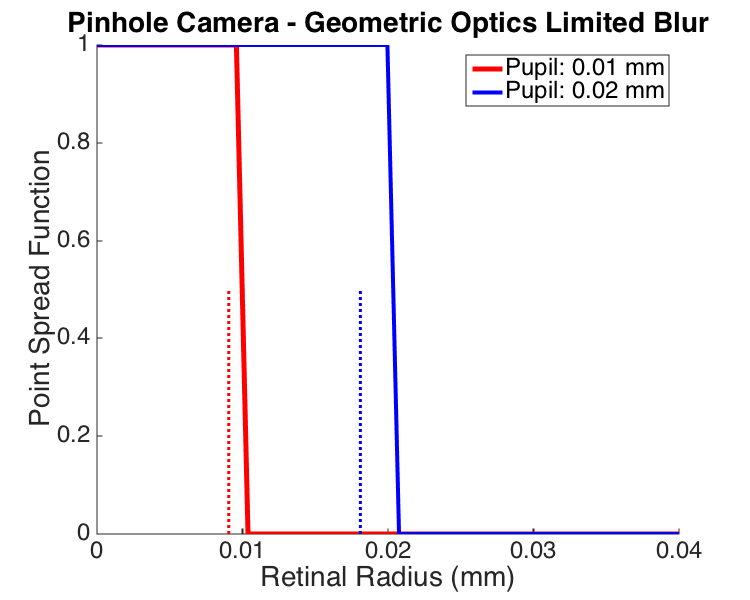
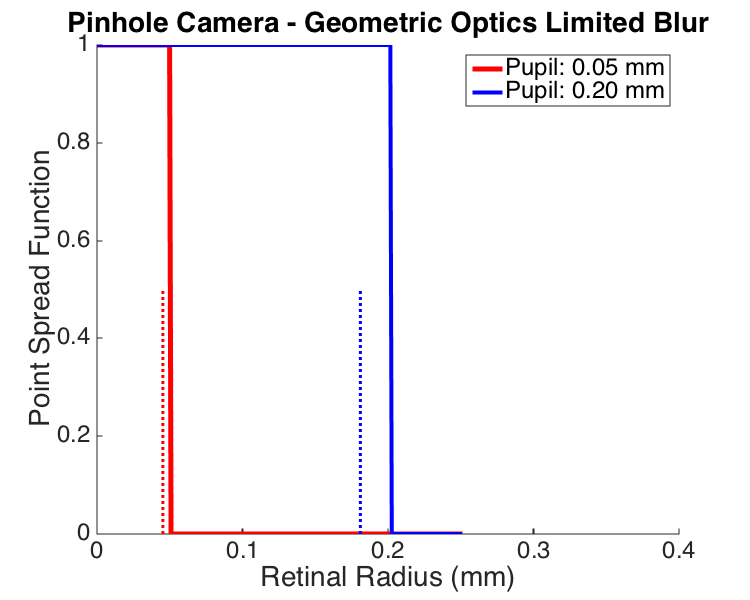
Autopublish

diff --git a/cbOpticsImage/cbPinholeOpticsBlur/cbPinholeOpticsBlur.html b/cbOpticsImage/cbPinholeOpticsBlur/cbPinholeOpticsBlur.html
@@ -77,24 +77,25 @@ table td { padding:7px 5px; text-align:left; vertical-align:top; border:1px soli
 <span class="comment">% diffraction and the geometry of image formation.</span>
 <span class="comment">%</span>
 <span class="comment">% To see this, run the script and compare the two figures.  For the smaller</span>
-<span class="comment">% pupil size, the diffraction limited blur is about twice the size of the</span>
-<span class="comment">% geometric optics blur.  For the larger pupil, this relation is reversed.</span>
-<span class="comment">% Note that the regime where this happens is for pupils of the order of</span>
-<span class="comment">% 0.01 mm in diameter, about 100 times smaller than the human pupil.</span>
+<span class="comment">% pupil size, the diffraction limited blur is smaller than size of the</span>
+<span class="comment">% geometric optics blur. For the larger pupil, this relation is reversed.</span>
+<span class="comment">% For the intermediate pupil size (no figure, see printout to command</span>
+<span class="comment">% window), the blur from the two factors is about the same. Note that the</span>
+<span class="comment">% regime where the crossover happens is for pupils of the order of 0.1 mm</span>
+<span class="comment">% in diameter, about 10 times smaller than the human pupil.</span>
 <span class="comment">%</span>
 <span class="comment">% Also note that the size of the blur for a pinhole camera with these pupil</span>
 <span class="comment">% sizes is considerably larger than that of the real human eye, which has</span>
-<span class="comment">% its best optical resolution corresponding roughly to the diffraction</span>
-<span class="comment">% limit of a pupil of 2-3 mm in diameter.</span>
+<span class="comment">% an optical resolution about 10 times better, that is aPSF about 10 times</span>
+<span class="comment">% smaller).</span>
 <span class="comment">%</span>
 <span class="comment">% Possible extensions for the interested reader:</span>
-<span class="comment">% 1) Examine how the relation between the two types of blur depends on what</span>
+<span class="comment">% - Examine how the relation between the two types of blur depends on what</span>
 <span class="comment">% PSF volume is chosen to compute the equivalent blur circle.</span>
-<span class="comment">% 2) Convert the size of the blur circles from mm on the retina to degrees</span>
-<span class="comment">% of visual angle.</span>
-<span class="comment">% 3) Compare the blur circles here computed with the size of the real human PSF.</span>
-<span class="comment">% 4) Examine how the blur due to diffraction depends on wavelength.</span>
-<span class="comment">% 5) Examine how the geometric blur varies with distance to the object.</span>
+<span class="comment">% - Compare the blur circles here computed with the size of the real human</span>
+<span class="comment">% PSF.</span>
+<span class="comment">% - Examine how the blur due to diffraction depends on wavelength.</span>
+<span class="comment">% - Examine how the geometric blur varies with distance to the object.</span>
 <span class="comment">% This begins to get at the concept of depth of field.</span>
 <span class="comment">%</span>
 <span class="comment">% Requires: Psychophysics Toolbox</span>
@@ -102,40 +103,39 @@ table td { padding:7px 5px; text-align:left; vertical-align:top; border:1px soli
 <span class="comment">% (c) David Brainard and Andrew Stockman, 2014</span>
 </pre><h2>Clear<a name="3"></a></h2><pre class="codeinput">clear; close <span class="string">all</span>;
 </pre><h2>Set parameters<a name="4"></a></h2><pre class="codeinput">eyeLengthMm = 24;
-wavelengthNm = 500;
+wavelengthNm = 550;
 distanceToSourceMm = 2000;
-minPupilDiameterMm = 0.01;
-maxPupilDiamterMm = 0.02;
-nPupilDiameters = 2;
 eqCriterionPSFFraction = 0.8;
-pupilDiametersMm = linspace(minPupilDiameterMm,maxPupilDiamterMm,nPupilDiameters);
-VERBOSE = false;
-</pre><h2>Compute diffraction blur for each pupil size<a name="5"></a></h2><p>The Psychtoolbox routine AiryPattern does the work.</p><pre class="codeinput"><span class="comment">% Set up radii to compute on.  Start by specifying the range</span>
-<span class="comment">% in retinal mm and then converting to degrees.</span>
-retinalRadiiMm = 0.4;
+pupilDiametersMm = [0.05 0.1 0.2];
+nPupilDiameters = length(pupilDiametersMm);
+</pre><h2>Compute diffraction blur for each pupil size<a name="5"></a></h2><p>The Psychtoolbox routine AiryPattern does the work.</p><pre class="codeinput"><span class="comment">% Set up radii to compute on.  Start by specifying the range in retinal mm</span>
+<span class="comment">% and then converting to degrees.</span>
+retinalRadiiMm = 0.5;
 retinalRadiiDeg = RetinalMMToDegrees(retinalRadiiMm,eyeLengthMm);
+retinalRadiiRad = degtorad(retinalRadiiDeg);
 
 <span class="comment">% Set up grid matrices, so that we can convert radius to two-dimensional</span>
-<span class="comment">% image. Although it is probably inefficient to compute on all the radii</span>
-<span class="comment">% of a square image matrix (as opposed to computing for linear radii and</span>
-<span class="comment">% then propogating the andser onto an image), computers are fast enough</span>
-<span class="comment">% that we don't care.</span>
+<span class="comment">% image. Although it is probably inefficient to compute on all the radii of</span>
+<span class="comment">% a square image matrix (as opposed to computing for linear radii and then</span>
+<span class="comment">% propogating the andser onto an image), computers are fast enough that we</span>
+<span class="comment">% don't care.</span>
 nPixels = 501;
 centerPixel = round(nPixels+1)/2;
-radiusMatrixDegs = retinalRadiiDeg*MakeRadiusMat(nPixels,nPixels,centerPixel,centerPixel)/nPixels;
-radiusMatrixMm = retinalRadiiMm*MakeRadiusMat(nPixels,nPixels,centerPixel,centerPixel)/nPixels;
+radiusMatrixRaw = MakeRadiusMat(nPixels,nPixels,centerPixel,centerPixel)/nPixels;
+radiusMatrixDegs = retinalRadiiDeg*radiusMatrixRaw;
+radiusMatrixRad = retinalRadiiRad*radiusMatrixRaw;
+radiusMatrixMm = retinalRadiiMm*radiusMatrixRaw;
 radiusLineMm = radiusMatrixMm(centerPixel,centerPixel:end);
 
-<span class="comment">% Do the calculation for each pupil size and</span>
-<span class="comment">% normalize volume of PSF to unity.  Also</span>
-<span class="comment">% extract 1d slice.</span>
+<span class="comment">% Do the calculation for each pupil size and normalize volume of PSF to</span>
+<span class="comment">% unity.  Also extract 1d slice.</span>
 <span class="keyword">for</span> p = 1:length(pupilDiametersMm)
     pupilDiameterMm = pupilDiametersMm(p);
-    diffractionPSFImage{p} = AiryPattern(radiusMatrixDegs,pupilDiameterMm,wavelengthNm);
+    diffractionPSFImage{p} = AiryPattern(radiusMatrixRad,pupilDiameterMm,wavelengthNm);
     diffractionPSFImage{p} = diffractionPSFImage{p}/sum(diffractionPSFImage{p}(:));
     diffractionPSFSlice{p} = diffractionPSFImage{p}(centerPixel,centerPixel:end);
 <span class="keyword">end</span>
-</pre><h2>Compute equivalent blur circle<a name="6"></a></h2><p>For comparison with geometric blur, it is convenient to characterize the diffraction limited PSF by an equivalent blur circle.  We do this by finding the radius that contains a criterion fraction of the pupil volume, and calling that the equivlent cirular psf. This is a rough and ready approximation, but we find it conceptually convenient.</p><pre class="codeinput">radiiMm = unique(radiusMatrixMm(:));
+</pre><h2>Compute equivalent blur circle<a name="6"></a></h2><p>For comparison with geometric blur, it is convenient to characterize the diffraction limited PSF by an equivalent blur circle.  We do this by finding the radius that contains a criterion fraction of the pupil volume, and calling that the equivlent cirular psf. This is a rough and ready approximation, but we find it conceptually convenient as a summary of the size of the PSF.</p><pre class="codeinput">radiiMm = unique(radiusMatrixMm(:));
 <span class="keyword">for</span> p = 1:length(pupilDiametersMm)
     <span class="keyword">for</span> i = 2:length(radiiMm)
         index = find(radiusMatrixMm &lt;= radiiMm(i));
@@ -143,6 +143,7 @@ radiusLineMm = radiusMatrixMm(centerPixel,centerPixel:end);
         <span class="keyword">if</span> (volume(i) &gt; eqCriterionPSFFraction)
             lambda = (eqCriterionPSFFraction-volume(i-1))/(volume(i)-volume(i-1));
             eqDiffractionBlurCircleDiameterMm(p) = (1-lambda)*radiiMm(i-1) + lambda*radiiMm(i);
+            eqDiffractionBlurCircleDiameterDegs(p) = RetinalMMToDegrees(eqDiffractionBlurCircleDiameterMm(p),eyeLengthMm);
             <span class="keyword">break</span>;
         <span class="keyword">end</span>
     <span class="keyword">end</span>
@@ -157,11 +158,20 @@ radiusLineMm = radiusMatrixMm(centerPixel,centerPixel:end);
     <span class="comment">% Normalize volume and extract slice</span>
     eqDiffractionPSFImageMm{p} = eqDiffractionPSFImageMm{p}/sum(eqDiffractionPSFImageMm{p}(:));
     eqDiffractionPSFSlice{p} = eqDiffractionPSFImageMm{p}(centerPixel,centerPixel:end);
+
+    <span class="comment">% Print summary of this calculation</span>
+    fprintf(<span class="string">'Pupil size %0.2f mm, diffraction equiv blur cicle (%d%% volume) %0.3f mm, %0.3f deg\n'</span>,<span class="keyword">...</span>
+        pupilDiametersMm(p),round(100*eqCriterionPSFFraction),eqDiffractionBlurCircleDiameterMm(p),eqDiffractionBlurCircleDiameterDegs(p));
 <span class="keyword">end</span>
+fprintf(<span class="string">'\n'</span>);
+</pre><pre class="codeoutput">Pupil size 0.05 mm, diffraction equiv blur cicle (80% volume) 0.180 mm, 0.430 deg
+Pupil size 0.10 mm, diffraction equiv blur cicle (80% volume) 0.100 mm, 0.239 deg
+Pupil size 0.20 mm, diffraction equiv blur cicle (80% volume) 0.054 mm, 0.128 deg
+
 </pre><h2>Plot a slice of the diffraction limited psf<a name="7"></a></h2><p>The plot shows a slice through the center of the psf for two pupil sizes (the smallest and largest that we compute for.).</p><p>The plot works better to compare shapes if we normalize PSFs to max of 1 rather than to unit volume, but be aware that the height of the volume normalized PSF will be different as a function of pupil size.</p><p>The plot also shows radius of equivalent blur circle as dashed vertical lines.</p><pre class="codeinput">[diffractionSliceFig,diffractionSliceFigParams] = cbFigInit;
 diffractionSliceFigParams.xLimLow = 0;
-diffractionSliceFigParams.xLimHigh = 0.04;
-diffractionSliceFigParams.xTicks = [0 0.01 0.02 0.03 0.04];;
+diffractionSliceFigParams.xLimHigh = 0.4;
+diffractionSliceFigParams.xTicks = [0 0.1 0.2 0.3 0.4];
 diffractionSliceFigParams.xTickLabels = {};
 diffractionSliceFigParams.yLimLow = 0;
 diffractionSliceFigParams.yLimHigh = 1;
@@ -182,9 +192,10 @@ FigureSave(<span class="string">'PinholeOpticsBlurDiffractionSlice'</span>,diffr
     geometricBlurCircleDiameterMm(p)  = ((distanceToSourceMm+eyeLengthMm)/distanceToSourceMm)*pupilDiametersMm(p);
 
     <span class="comment">% For a really fair comparison with diffraction, should find the</span>
-    <span class="comment">% equivalent circle diameter, that contains the criterion fraction</span>
-    <span class="comment">% of the volume.</span>
+    <span class="comment">% equivalent circle diameter, that contains the criterion fraction of</span>
+    <span class="comment">% the volume.</span>
     eqGeometricBlurCircleDiameterMm(p) = sqrt(eqCriterionPSFFraction)*geometricBlurCircleDiameterMm(p);
+    eqGeometricBlurCircleDiameterDegs(p) = RetinalMMToDegrees(eqGeometricBlurCircleDiameterMm(p),eyeLengthMm);
     eqGeometricPSFImageMm{p} = ones(size(radiusMatrixMm));
     index = find(radiusMatrixMm &gt; geometricBlurCircleDiameterMm(p));
     eqGeometricPSFImageMm{p}(index) = 0;
@@ -192,11 +203,20 @@ FigureSave(<span class="string">'PinholeOpticsBlurDiffractionSlice'</span>,diffr
     <span class="comment">% Normalize volume and extract slice</span>
     eqGeometricPSFImageMm{p} = eqGeometricPSFImageMm{p}/sum(eqGeometricPSFImageMm{p}(:));
     eqGeometricPSFSlice{p} = eqGeometricPSFImageMm{p}(centerPixel,centerPixel:end);
+
+     <span class="comment">% Print summary of this calculation</span>
+    fprintf(<span class="string">'Pupil size %0.2f mm, geometric equiv blur cicle (%d%% volume) %0.3f mm, %0.3f deg\n'</span>,<span class="keyword">...</span>
+        pupilDiametersMm(p),round(100*eqCriterionPSFFraction),eqGeometricBlurCircleDiameterMm(p),eqGeometricBlurCircleDiameterDegs(p));
 <span class="keyword">end</span>
+fprintf(<span class="string">'\n'</span>);
+</pre><pre class="codeoutput">Pupil size 0.05 mm, geometric equiv blur cicle (80% volume) 0.045 mm, 0.108 deg
+Pupil size 0.10 mm, geometric equiv blur cicle (80% volume) 0.091 mm, 0.216 deg
+Pupil size 0.20 mm, geometric equiv blur cicle (80% volume) 0.181 mm, 0.432 deg
+
 </pre><h2>Plot a slice through the geometric blur circle<a name="9"></a></h2><p>The plot shows the geometry-limited PSF, which is just a circle. It doesn't look quite like a circle because of numerical precision issues in the 2D computation of the PSF implemented here, but the basic point is clear.</p><p>The plot also shows as a dashed line the radius that contains the same criterion fraction of the PSF mass as for the diffraction limited calculation.  This provides a metric that may be compared to the size of the same metric for the diffraction limited PSF.</p><pre class="codeinput">[geometricSliceFig,geometricSliceFigParams] = cbFigInit;
 geometricSliceFigParams.xLimLow = 0;
-geometricSliceFigParams.xLimHigh = 0.04;
-geometricSliceFigParams.xTicks = [0 0.01 0.02 0.03 0.04];
+geometricSliceFigParams.xLimHigh = 0.4;
+geometricSliceFigParams.xTicks = [0 0.1 0.2 0.3 0.4];
 geometricSliceFigParams.xTickLabels = {};
 geometricSliceFigParams.yLimLow = 0;
 geometricSliceFigParams.yLimHigh = 1;
@@ -225,24 +245,25 @@ function cbPinholeOpticsBlur
 % diffraction and the geometry of image formation.
 %
 % To see this, run the script and compare the two figures.  For the smaller
-% pupil size, the diffraction limited blur is about twice the size of the
-% geometric optics blur.  For the larger pupil, this relation is reversed.
-% Note that the regime where this happens is for pupils of the order of
-% 0.01 mm in diameter, about 100 times smaller than the human pupil.
+% pupil size, the diffraction limited blur is smaller than size of the
+% geometric optics blur. For the larger pupil, this relation is reversed.
+% For the intermediate pupil size (no figure, see printout to command
+% window), the blur from the two factors is about the same. Note that the
+% regime where the crossover happens is for pupils of the order of 0.1 mm
+% in diameter, about 10 times smaller than the human pupil.
 %
 % Also note that the size of the blur for a pinhole camera with these pupil
 % sizes is considerably larger than that of the real human eye, which has
-% its best optical resolution corresponding roughly to the diffraction
-% limit of a pupil of 2-3 mm in diameter.
+% an optical resolution about 10 times better, that is aPSF about 10 times
+% smaller).
 %
 % Possible extensions for the interested reader:
-% 1) Examine how the relation between the two types of blur depends on what
+% - Examine how the relation between the two types of blur depends on what
 % PSF volume is chosen to compute the equivalent blur circle.
-% 2) Convert the size of the blur circles from mm on the retina to degrees
-% of visual angle.
-% 3) Compare the blur circles here computed with the size of the real human PSF.
-% 4) Examine how the blur due to diffraction depends on wavelength.
-% 5) Examine how the geometric blur varies with distance to the object.
+% - Compare the blur circles here computed with the size of the real human
+% PSF.
+% - Examine how the blur due to diffraction depends on wavelength.
+% - Examine how the geometric blur varies with distance to the object.
 % This begins to get at the concept of depth of field.
 %
 % Requires: Psychophysics Toolbox
@@ -254,49 +275,50 @@ clear; close all;
 
 %% Set parameters
 eyeLengthMm = 24;
-wavelengthNm = 500;
+wavelengthNm = 550;
 distanceToSourceMm = 2000;
-minPupilDiameterMm = 0.01;
-maxPupilDiamterMm = 0.02;
-nPupilDiameters = 2;
 eqCriterionPSFFraction = 0.8;
-pupilDiametersMm = linspace(minPupilDiameterMm,maxPupilDiamterMm,nPupilDiameters);
-VERBOSE = false;
+pupilDiametersMm = [0.05 0.1 0.2];
+nPupilDiameters = length(pupilDiametersMm);
 
 %% Compute diffraction blur for each pupil size
 % The Psychtoolbox routine AiryPattern does the work.
 
-% Set up radii to compute on.  Start by specifying the range
-% in retinal mm and then converting to degrees.
-retinalRadiiMm = 0.4;
+% Set up radii to compute on.  Start by specifying the range in retinal mm
+% and then converting to degrees.
+retinalRadiiMm = 0.5;
 retinalRadiiDeg = RetinalMMToDegrees(retinalRadiiMm,eyeLengthMm);
+retinalRadiiRad = degtorad(retinalRadiiDeg);
 
 % Set up grid matrices, so that we can convert radius to two-dimensional
-% image. Although it is probably inefficient to compute on all the radii
-% of a square image matrix (as opposed to computing for linear radii and
-% then propogating the andser onto an image), computers are fast enough
-% that we don't care.
+% image. Although it is probably inefficient to compute on all the radii of
+% a square image matrix (as opposed to computing for linear radii and then
+% propogating the andser onto an image), computers are fast enough that we
+% don't care.
 nPixels = 501;
 centerPixel = round(nPixels+1)/2;
-radiusMatrixDegs = retinalRadiiDeg*MakeRadiusMat(nPixels,nPixels,centerPixel,centerPixel)/nPixels;
-radiusMatrixMm = retinalRadiiMm*MakeRadiusMat(nPixels,nPixels,centerPixel,centerPixel)/nPixels;
+radiusMatrixRaw = MakeRadiusMat(nPixels,nPixels,centerPixel,centerPixel)/nPixels;
+radiusMatrixDegs = retinalRadiiDeg*radiusMatrixRaw;
+radiusMatrixRad = retinalRadiiRad*radiusMatrixRaw;
+radiusMatrixMm = retinalRadiiMm*radiusMatrixRaw;
 radiusLineMm = radiusMatrixMm(centerPixel,centerPixel:end);
 
-% Do the calculation for each pupil size and
-% normalize volume of PSF to unity.  Also
-% extract 1d slice.
+% Do the calculation for each pupil size and normalize volume of PSF to
+% unity.  Also extract 1d slice.
 for p = 1:length(pupilDiametersMm)
     pupilDiameterMm = pupilDiametersMm(p);
-    diffractionPSFImage{p} = AiryPattern(radiusMatrixDegs,pupilDiameterMm,wavelengthNm); 
+    diffractionPSFImage{p} = AiryPattern(radiusMatrixRad,pupilDiameterMm,wavelengthNm); 
     diffractionPSFImage{p} = diffractionPSFImage{p}/sum(diffractionPSFImage{p}(:));
     diffractionPSFSlice{p} = diffractionPSFImage{p}(centerPixel,centerPixel:end);
 end
 
 %% Compute equivalent blur circle
-% For comparison with geometric blur, it is convenient to characterize the diffraction
-% limited PSF by an equivalent blur circle.  We do this by finding the radius that
-% contains a criterion fraction of the pupil volume, and calling that the equivlent cirular psf.
-% This is a rough and ready approximation, but we find it conceptually convenient.
+% For comparison with geometric blur, it is convenient to characterize the
+% diffraction limited PSF by an equivalent blur circle.  We do this by
+% finding the radius that contains a criterion fraction of the pupil
+% volume, and calling that the equivlent cirular psf. This is a rough and
+% ready approximation, but we find it conceptually convenient as a summary
+% of the size of the PSF.
 radiiMm = unique(radiusMatrixMm(:));
 for p = 1:length(pupilDiametersMm)
     for i = 2:length(radiiMm)
@@ -305,6 +327,7 @@ for p = 1:length(pupilDiametersMm)
         if (volume(i) > eqCriterionPSFFraction)
             lambda = (eqCriterionPSFFraction-volume(i-1))/(volume(i)-volume(i-1));
             eqDiffractionBlurCircleDiameterMm(p) = (1-lambda)*radiiMm(i-1) + lambda*radiiMm(i);
+            eqDiffractionBlurCircleDiameterDegs(p) = RetinalMMToDegrees(eqDiffractionBlurCircleDiameterMm(p),eyeLengthMm);
             break;
         end
     end
@@ -319,22 +342,27 @@ for p = 1:length(pupilDiametersMm)
     % Normalize volume and extract slice
     eqDiffractionPSFImageMm{p} = eqDiffractionPSFImageMm{p}/sum(eqDiffractionPSFImageMm{p}(:));
     eqDiffractionPSFSlice{p} = eqDiffractionPSFImageMm{p}(centerPixel,centerPixel:end);
+    
+    % Print summary of this calculation
+    fprintf('Pupil size %0.2f mm, diffraction equiv blur cicle (%d%% volume) %0.3f mm, %0.3f deg\n',...
+        pupilDiametersMm(p),round(100*eqCriterionPSFFraction),eqDiffractionBlurCircleDiameterMm(p),eqDiffractionBlurCircleDiameterDegs(p));
 end
+fprintf('\n');
 
 %% Plot a slice of the diffraction limited psf
-% The plot shows a slice through the center of the
-% psf for two pupil sizes (the smallest and largest that
-% we compute for.).
+% The plot shows a slice through the center of the psf for two pupil sizes
+% (the smallest and largest that we compute for.).
 %
 % The plot works better to compare shapes if we normalize PSFs to max of 1
 % rather than to unit volume, but be aware that the height of the volume
 % normalized PSF will be different as a function of pupil size.
 %
-% The plot also shows radius of equivalent blur circle as dashed vertical lines. 
+% The plot also shows radius of equivalent blur circle as dashed vertical
+% lines.
 [diffractionSliceFig,diffractionSliceFigParams] = cbFigInit;
 diffractionSliceFigParams.xLimLow = 0;
-diffractionSliceFigParams.xLimHigh = 0.04;
-diffractionSliceFigParams.xTicks = [0 0.01 0.02 0.03 0.04];;
+diffractionSliceFigParams.xLimHigh = 0.4;
+diffractionSliceFigParams.xTicks = [0 0.1 0.2 0.3 0.4];
 diffractionSliceFigParams.xTickLabels = {};
 diffractionSliceFigParams.yLimLow = 0;
 diffractionSliceFigParams.yLimHigh = 1;
@@ -352,24 +380,24 @@ legend({sprintf('Pupil: %0.2f mm',pupilDiametersMm(1)) sprintf('Pupil: %0.2f mm'
 FigureSave('PinholeOpticsBlurDiffractionSlice',diffractionSliceFig,diffractionSliceFigParams.figType);
 
 %% Compute geometric blur for a pinhole optics.
-% This depends on the distance to the object, and in the limit of a infitely
-% distant point source is just the pupil diameter directly.
+% This depends on the distance to the object, and in the limit of a
+% infitely distant point source is just the pupil diameter directly.
 %
 % We think that the distance dependence is also true of diffraction, in the
-% sense that using the Airy pattern as the PSF results
-% from some approximations that treat the arriving wavefront
-% as planar at the pupil.
+% sense that using the Airy pattern as the PSF results from some
+% approximations that treat the arriving wavefront as planar at the pupil.
 %
-% In any case, we'll use a distance that is big with respect to the
-% scale of the model eye.
+% In any case, we'll use a distance that is big with respect to the scale
+% of the model eye.
 for p = 1:length(pupilDiametersMm)
     % Geometric calculation
     geometricBlurCircleDiameterMm(p)  = ((distanceToSourceMm+eyeLengthMm)/distanceToSourceMm)*pupilDiametersMm(p);
     
     % For a really fair comparison with diffraction, should find the
-    % equivalent circle diameter, that contains the criterion fraction
-    % of the volume.
+    % equivalent circle diameter, that contains the criterion fraction of
+    % the volume.
     eqGeometricBlurCircleDiameterMm(p) = sqrt(eqCriterionPSFFraction)*geometricBlurCircleDiameterMm(p);
+    eqGeometricBlurCircleDiameterDegs(p) = RetinalMMToDegrees(eqGeometricBlurCircleDiameterMm(p),eyeLengthMm);
     eqGeometricPSFImageMm{p} = ones(size(radiusMatrixMm));
     index = find(radiusMatrixMm > geometricBlurCircleDiameterMm(p));
     eqGeometricPSFImageMm{p}(index) = 0;
@@ -377,22 +405,27 @@ for p = 1:length(pupilDiametersMm)
     % Normalize volume and extract slice
     eqGeometricPSFImageMm{p} = eqGeometricPSFImageMm{p}/sum(eqGeometricPSFImageMm{p}(:));
     eqGeometricPSFSlice{p} = eqGeometricPSFImageMm{p}(centerPixel,centerPixel:end);
+    
+     % Print summary of this calculation
+    fprintf('Pupil size %0.2f mm, geometric equiv blur cicle (%d%% volume) %0.3f mm, %0.3f deg\n',...
+        pupilDiametersMm(p),round(100*eqCriterionPSFFraction),eqGeometricBlurCircleDiameterMm(p),eqGeometricBlurCircleDiameterDegs(p));
 end
+fprintf('\n');
 
 %% Plot a slice through the geometric blur circle
-% The plot shows the geometry-limited PSF, which is just a circle.
-% It doesn't look quite like a circle because of numerical precision
-% issues in the 2D computation of the PSF implemented here, but the basic point 
-% is clear.
+% The plot shows the geometry-limited PSF, which is just a circle. It
+% doesn't look quite like a circle because of numerical precision issues in
+% the 2D computation of the PSF implemented here, but the basic point is
+% clear.
 %
 % The plot also shows as a dashed line the radius that contains the same
 % criterion fraction of the PSF mass as for the diffraction limited
-% calculation.  This provides a metric that may be compared to the
-% size of the same metric for the diffraction limited PSF.
+% calculation.  This provides a metric that may be compared to the size of
+% the same metric for the diffraction limited PSF.
 [geometricSliceFig,geometricSliceFigParams] = cbFigInit;
 geometricSliceFigParams.xLimLow = 0;
-geometricSliceFigParams.xLimHigh = 0.04;
-geometricSliceFigParams.xTicks = [0 0.01 0.02 0.03 0.04];
+geometricSliceFigParams.xLimHigh = 0.4;
+geometricSliceFigParams.xTicks = [0 0.1 0.2 0.3 0.4];
 geometricSliceFigParams.xTickLabels = {};
 geometricSliceFigParams.yLimLow = 0;
 geometricSliceFigParams.yLimHigh = 1;
